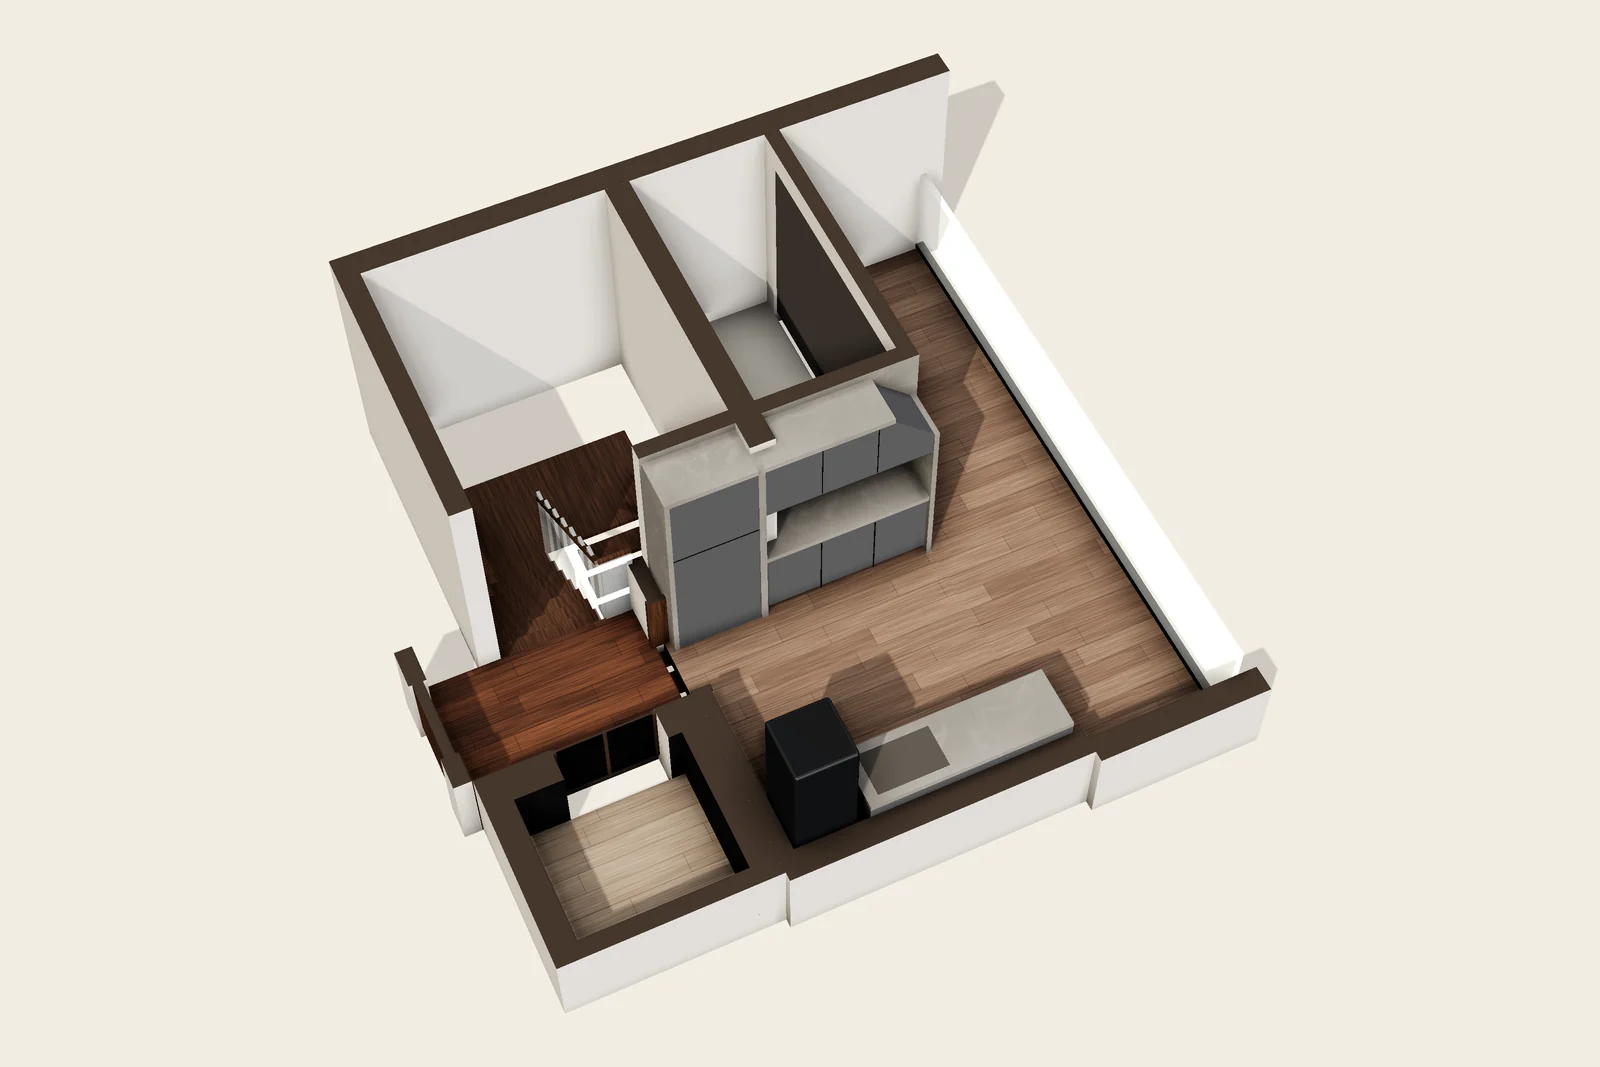
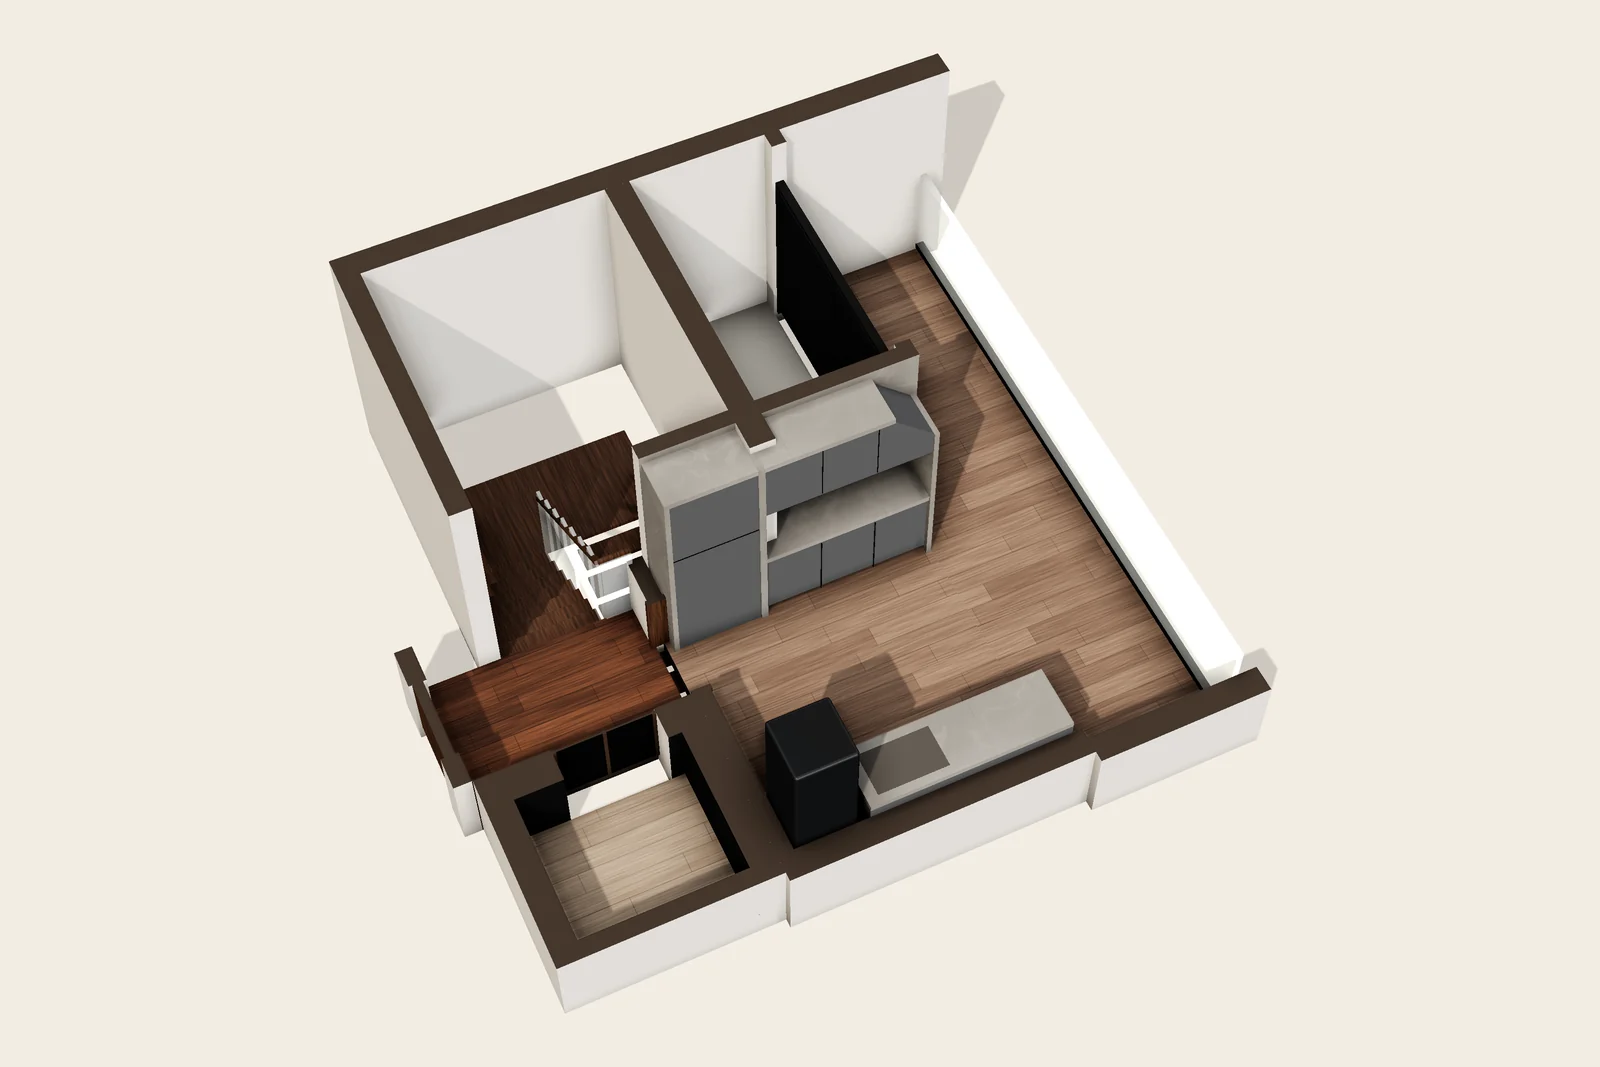
Laundry: new photo on Features, louvred AC-ledge gates in 3D
- The Features gallery's laundry photo replaced with the owner's new wide
  shot of the covered laundry (washer-dryer, sink, cabinets, terrace);
  alt text updated in all five languages
- 3D: the AC ledge closed by black louvred gates, open above, as in the
  photos; re-rendered the 5th-floor picture
- Cache stamps bumped to 2026103101 (rooms3d.js changed)

Changed region(s): [[0.4688, 0.1237, 0.625, 0.3711]]

diff --git a/ja/features.html b/ja/features.html
@@ -28,7 +28,7 @@
   <link rel="preconnect" href="https://fonts.googleapis.com">
   <link rel="preconnect" href="https://fonts.gstatic.com" crossorigin>
   <link href="https://fonts.googleapis.com/css2?family=Cormorant+Garamond:ital,wght@0,400;0,500;1,400&family=Jost:wght@300;400;500&display=swap" rel="stylesheet">
-  <link rel="stylesheet" href="../assets/css/style.css?v=2026102903">
+  <link rel="stylesheet" href="../assets/css/style.css?v=2026103101">
 </head>
 <body>
   <div data-header></div>
@@ -47,7 +47,7 @@
         <div class="gallery__track">
           <figure><img src="../assets/img/lift/lift-01.webp" alt="扉の開いたホームエレベーター" loading="lazy"></figure>
           <figure><img src="../assets/img/features/luggage-storage.webp" alt="造り付けの荷物収納キャビネット" loading="lazy"></figure>
-          <figure><img src="../assets/img/features/laundry.webp" alt="洗濯機、乾燥機、多目的シンク、街の眺めのある屋外ランドリーテラス" loading="lazy" style="object-position: 72% 50%"></figure>
+          <figure><img src="../assets/img/features/laundry.webp" alt="最上階の屋根付きランドリー：縦置きの洗濯機と乾燥機、多目的シンク、収納棚。テラスに面しています" loading="lazy"></figure>
           <figure><img src="../assets/img/living/living-02.webp" alt="リビングルームとテラス" loading="lazy"></figure>
           <figure><img src="../assets/img/living/balcony-01.webp" alt="リビングルームに面した共用のオープンバルコニーと街の眺め" loading="lazy"></figure>
           <figure><img src="../assets/img/living/balcony-02.webp" alt="リビングルームの扉から見た共用のオープンバルコニー" loading="lazy"></figure>
@@ -190,6 +190,6 @@
   </main>
 
   <div data-footer></div>
-  <script src="../assets/js/main.js?v=2026102903"></script>
+  <script src="../assets/js/main.js?v=2026103101"></script>
 </body>
 </html>

diff --git a/assets/js/rooms3d.js b/assets/js/rooms3d.js
@@ -679,8 +679,9 @@ export class Builder {
   }
 
   /* Black vertical bars along a rectangle's long side, with a top rail: a slatted privacy screen,
-     or (bar 2, pitch 0.11 m) a railing. Cut with the walls when it stands on the camera side. */
-  slats(x0, y0, x1, y1, h = 1.2, { bar = 4, pitch = 0.1 } = {}) {
+     or (bar 2, pitch 0.11 m) a railing; across: horizontal louvres in a frame, a gate. Cut with
+     the walls when it stands on the camera side. */
+  slats(x0, y0, x1, y1, h = 1.2, { bar = 4, pitch = 0.1, across = false } = {}) {
     const w = this.wall(x0, y0, x1, y1, { h1: h, mat: "black", furniture: true });
     const build = (top) => {
       const group = new THREE.Group(), alongY = y1 - y0 > x1 - x0, [a, b] = alongY ? [y0, y1] : [x0, x1];
@@ -690,7 +691,10 @@ export class Builder {
         mesh.castShadow = mesh.receiveShadow = true;
         group.add(mesh);
       };
-      for (let i = 0; i < n; i++) {
+      if (across) {   // horizontal louvres in a frame (a gate)
+        for (let z = 0.1; z < top - 0.02; z += pitch) piece([x0, y0, x1, y1], z, z + px(bar));
+        for (const p of [a, (a + b) / 2, b - 4]) piece(alongY ? [x0, p, x1, p + 4] : [p, y0, p + 4, y1], 0, top);
+      } else for (let i = 0; i < n; i++) {
         const p = a + (b - a) * (i + 0.5) / n;
         piece(alongY ? [x0, p - bar / 2, x1, p + bar / 2] : [p - bar / 2, y0, p + bar / 2, y1], 0, top);
       }
@@ -1451,8 +1455,7 @@ function floor5(b) {
   b.wall(1271, 52, 1300, 435);
   b.wall(1164, 382, 1480, 400, { faces: { s: "tile" } });
   b.wall(1462, 52, 1480, 72);
-  b.wall(1466, 72, 1476, 377, { h1: 2.2, mat: "pot" });               // AC ledge doors
-  b.wall(1462, 72, 1480, 377, { h0: 2.2 });
+  b.slats(1466, 72, 1476, 377, 1.9, { bar: 3, pitch: 0.06, across: true });   // AC ledge: black louvred gates, open above (photo, 2026-10-31)
   b.wall(1462, 377, 1480, 382);
   b.wall(1164, 770, 1491, 800, { faces: { n: "tile" } });
   b.wall(1491, 782, 1692, 812);

diff --git a/es/features.html b/es/features.html
@@ -28,7 +28,7 @@
   <link rel="preconnect" href="https://fonts.googleapis.com">
   <link rel="preconnect" href="https://fonts.gstatic.com" crossorigin>
   <link href="https://fonts.googleapis.com/css2?family=Cormorant+Garamond:ital,wght@0,400;0,500;1,400&family=Jost:wght@300;400;500&display=swap" rel="stylesheet">
-  <link rel="stylesheet" href="../assets/css/style.css?v=2026102903">
+  <link rel="stylesheet" href="../assets/css/style.css?v=2026103101">
 </head>
 <body>
   <div data-header></div>
@@ -47,7 +47,7 @@
         <div class="gallery__track">
           <figure><img src="../assets/img/lift/lift-01.webp" alt="El ascensor doméstico, con las puertas abiertas" loading="lazy"></figure>
           <figure><img src="../assets/img/features/luggage-storage.webp" alt="Armarios empotrados para el equipaje" loading="lazy"></figure>
-          <figure><img src="../assets/img/features/laundry.webp" alt="Terraza de lavandería al aire libre con lavadora, secadora, fregadero y vistas a la ciudad" loading="lazy" style="object-position: 72% 50%"></figure>
+          <figure><img src="../assets/img/features/laundry.webp" alt="La lavandería cubierta de la última planta: lavadora y secadora apiladas, fregadero y armarios, abierta a la terraza" loading="lazy"></figure>
           <figure><img src="../assets/img/living/living-02.webp" alt="Salón y terraza" loading="lazy"></figure>
           <figure><img src="../assets/img/living/balcony-01.webp" alt="El balcón abierto compartido junto al salón, con vistas a la ciudad" loading="lazy"></figure>
           <figure><img src="../assets/img/living/balcony-02.webp" alt="El balcón abierto compartido, visto desde las puertas del salón" loading="lazy"></figure>
@@ -190,6 +190,6 @@
   </main>
 
   <div data-footer></div>
-  <script src="../assets/js/main.js?v=2026102903"></script>
+  <script src="../assets/js/main.js?v=2026103101"></script>
 </body>
 </html>

diff --git a/fr/features.html b/fr/features.html
@@ -28,7 +28,7 @@
   <link rel="preconnect" href="https://fonts.googleapis.com">
   <link rel="preconnect" href="https://fonts.gstatic.com" crossorigin>
   <link href="https://fonts.googleapis.com/css2?family=Cormorant+Garamond:ital,wght@0,400;0,500;1,400&family=Jost:wght@300;400;500&display=swap" rel="stylesheet">
-  <link rel="stylesheet" href="../assets/css/style.css?v=2026102903">
+  <link rel="stylesheet" href="../assets/css/style.css?v=2026103101">
 </head>
 <body>
   <div data-header></div>
@@ -47,7 +47,7 @@
         <div class="gallery__track">
           <figure><img src="../assets/img/lift/lift-01.webp" alt="L'ascenseur privatif, portes ouvertes" loading="lazy"></figure>
           <figure><img src="../assets/img/features/luggage-storage.webp" alt="Placards intégrés pour les bagages" loading="lazy"></figure>
-          <figure><img src="../assets/img/features/laundry.webp" alt="Terrasse de buanderie en plein air avec lave-linge, sèche-linge, évier et vue sur la ville" loading="lazy" style="object-position: 72% 50%"></figure>
+          <figure><img src="../assets/img/features/laundry.webp" alt="La buanderie couverte du dernier étage : lave-linge et sèche-linge superposés, évier et rangements, ouverte sur la terrasse" loading="lazy"></figure>
           <figure><img src="../assets/img/living/living-02.webp" alt="Salon et terrasse" loading="lazy"></figure>
           <figure><img src="../assets/img/living/balcony-01.webp" alt="Le balcon ouvert partagé attenant au salon, avec vue sur la ville" loading="lazy"></figure>
           <figure><img src="../assets/img/living/balcony-02.webp" alt="Le balcon ouvert partagé, vu depuis les portes du salon" loading="lazy"></figure>
@@ -190,6 +190,6 @@
   </main>
 
   <div data-footer></div>
-  <script src="../assets/js/main.js?v=2026102903"></script>
+  <script src="../assets/js/main.js?v=2026103101"></script>
 </body>
 </html>

diff --git a/features.html b/features.html
@@ -27,7 +27,7 @@
   <link rel="preconnect" href="https://fonts.googleapis.com">
   <link rel="preconnect" href="https://fonts.gstatic.com" crossorigin>
   <link href="https://fonts.googleapis.com/css2?family=Cormorant+Garamond:ital,wght@0,400;0,500;1,400&family=Jost:wght@300;400;500&display=swap" rel="stylesheet">
-  <link rel="stylesheet" href="assets/css/style.css?v=2026102903">
+  <link rel="stylesheet" href="assets/css/style.css?v=2026103101">
 </head>
 <body>
   <div data-header></div>
@@ -46,7 +46,7 @@
         <div class="gallery__track">
           <figure><img src="assets/img/lift/lift-01.webp" alt="The home lift, doors open" loading="lazy"></figure>
           <figure><img src="assets/img/features/luggage-storage.webp" alt="Built-in luggage storage cabinets" loading="lazy"></figure>
-          <figure><img src="assets/img/features/laundry.webp" alt="Open-air laundry terrace with washer, dryer, utility sink and city view" loading="lazy" style="object-position: 72% 50%"></figure>
+          <figure><img src="assets/img/features/laundry.webp" alt="The covered laundry on the top floor: stacked washer-dryer, utility sink and storage cabinets, opening onto the terrace" loading="lazy"></figure>
           <figure><img src="assets/img/living/living-02.webp" alt="Living room and terrace" loading="lazy"></figure>
           <figure><img src="assets/img/living/balcony-01.webp" alt="The shared open balcony off the living room, with city views" loading="lazy"></figure>
           <figure><img src="assets/img/living/balcony-02.webp" alt="The shared open balcony, seen from the living-room doors" loading="lazy"></figure>
@@ -189,6 +189,6 @@
   </main>
 
   <div data-footer></div>
-  <script src="assets/js/main.js?v=2026102903"></script>
+  <script src="assets/js/main.js?v=2026103101"></script>
 </body>
 </html>

diff --git a/zh/features.html b/zh/features.html
@@ -28,7 +28,7 @@
   <link rel="preconnect" href="https://fonts.googleapis.com">
   <link rel="preconnect" href="https://fonts.gstatic.com" crossorigin>
   <link href="https://fonts.googleapis.com/css2?family=Cormorant+Garamond:ital,wght@0,400;0,500;1,400&family=Jost:wght@300;400;500&display=swap" rel="stylesheet">
-  <link rel="stylesheet" href="../assets/css/style.css?v=2026102903">
+  <link rel="stylesheet" href="../assets/css/style.css?v=2026103101">
 </head>
 <body>
   <div data-header></div>
@@ -47,7 +47,7 @@
         <div class="gallery__track">
           <figure><img src="../assets/img/lift/lift-01.webp" alt="家用电梯，门已打开" loading="lazy"></figure>
           <figure><img src="../assets/img/features/luggage-storage.webp" alt="内置行李储物柜" loading="lazy"></figure>
-          <figure><img src="../assets/img/features/laundry.webp" alt="露天洗衣露台：洗衣机、烘干机、洗涤水槽及城市景观" loading="lazy" style="object-position: 72% 50%"></figure>
+          <figure><img src="../assets/img/features/laundry.webp" alt="顶层有顶棚的洗衣区：叠放的洗衣机和烘干机、洗涤水槽及储物柜，通向露台" loading="lazy"></figure>
           <figure><img src="../assets/img/living/living-02.webp" alt="客厅与露台" loading="lazy"></figure>
           <figure><img src="../assets/img/living/balcony-01.webp" alt="客厅外的共享开放式阳台，可眺望城市景观" loading="lazy"></figure>
           <figure><img src="../assets/img/living/balcony-02.webp" alt="从客厅门口看共享开放式阳台" loading="lazy"></figure>
@@ -190,6 +190,6 @@
   </main>
 
   <div data-footer></div>
-  <script src="../assets/js/main.js?v=2026102903"></script>
+  <script src="../assets/js/main.js?v=2026103101"></script>
 </body>
 </html>

diff --git a/3d/index.html b/3d/index.html
@@ -14,7 +14,7 @@
   <link rel="preconnect" href="https://fonts.googleapis.com">
   <link rel="preconnect" href="https://fonts.gstatic.com" crossorigin>
   <link href="https://fonts.googleapis.com/css2?family=Cormorant+Garamond:ital,wght@0,400;0,500;1,400&family=Jost:wght@300;400;500&display=swap" rel="stylesheet">
-  <link rel="stylesheet" href="../assets/css/style.css?v=2026102903">
+  <link rel="stylesheet" href="../assets/css/style.css?v=2026103101">
   <style>
     html, body { height: 100%; overflow: hidden; }
     body { background: #f3ede4; }
@@ -79,6 +79,6 @@
   <div class="v-labels" id="labels" aria-hidden="true"></div>
   <div class="v-foot"><span id="hint"></span><small id="note"></small></div>
   <div class="v-loading" id="loading">Loading the room…</div>
-  <script type="module" src="../assets/js/viewer3d.js?v=2026102903"></script>
+  <script type="module" src="../assets/js/viewer3d.js?v=2026103101"></script>
 </body>
 </html>

diff --git a/404.html b/404.html
@@ -36,7 +36,7 @@
   <link rel="preconnect" href="https://fonts.googleapis.com">
   <link rel="preconnect" href="https://fonts.gstatic.com" crossorigin>
   <link href="https://fonts.googleapis.com/css2?family=Cormorant+Garamond:ital,wght@0,400;0,500;1,400&family=Jost:wght@300;400;500&display=swap" rel="stylesheet">
-  <link rel="stylesheet" href="/assets/css/style.css?v=2026102903">
+  <link rel="stylesheet" href="/assets/css/style.css?v=2026103101">
   <style>
     .page-head > [lang] { display: none; }
     html[lang="en"] .page-head > [lang="en"], html[lang="zh-Hans"] .page-head > [lang="zh-Hans"], html[lang="ja"] .page-head > [lang="ja"], html[lang="es"] .page-head > [lang="es"], html[lang="fr"] .page-head > [lang="fr"] { display: block; }
@@ -101,6 +101,6 @@
   </main>
 
   <div data-footer></div>
-  <script src="/assets/js/main.js?v=2026102903"></script>
+  <script src="/assets/js/main.js?v=2026103101"></script>
 </body>
 </html>

diff --git a/ja/guide/index.html b/ja/guide/index.html
@@ -12,7 +12,7 @@
   <link rel="preconnect" href="https://fonts.googleapis.com">
   <link rel="preconnect" href="https://fonts.gstatic.com" crossorigin>
   <link href="https://fonts.googleapis.com/css2?family=Cormorant+Garamond:ital,wght@0,400;0,500;1,400&family=Jost:wght@300;400;500&display=swap" rel="stylesheet">
-  <link rel="stylesheet" href="../../assets/css/style.css?v=2026102903">
+  <link rel="stylesheet" href="../../assets/css/style.css?v=2026103101">
 </head>
 <body>
   <div data-header></div>
@@ -36,7 +36,7 @@
   </main>
 
   <div data-footer></div>
-  <script src="../../assets/js/main.js?v=2026102903"></script>
+  <script src="../../assets/js/main.js?v=2026103101"></script>
   <script src="https://cdnjs.cloudflare.com/ajax/libs/marked/12.0.2/marked.min.js"></script>
   <script>
     // The Japanese guide's text lives in guide.md (same folder): edit that file, not this one.

diff --git a/es/guide/index.html b/es/guide/index.html
@@ -12,7 +12,7 @@
   <link rel="preconnect" href="https://fonts.googleapis.com">
   <link rel="preconnect" href="https://fonts.gstatic.com" crossorigin>
   <link href="https://fonts.googleapis.com/css2?family=Cormorant+Garamond:ital,wght@0,400;0,500;1,400&family=Jost:wght@300;400;500&display=swap" rel="stylesheet">
-  <link rel="stylesheet" href="../../assets/css/style.css?v=2026102903">
+  <link rel="stylesheet" href="../../assets/css/style.css?v=2026103101">
 </head>
 <body>
   <div data-header></div>
@@ -36,7 +36,7 @@
   </main>
 
   <div data-footer></div>
-  <script src="../../assets/js/main.js?v=2026102903"></script>
+  <script src="../../assets/js/main.js?v=2026103101"></script>
   <script src="https://cdnjs.cloudflare.com/ajax/libs/marked/12.0.2/marked.min.js"></script>
   <script>
     // The Spanish guide's text lives in guide.md (same folder): edit that file, not this one.

diff --git a/zh/guide/index.html b/zh/guide/index.html
@@ -12,7 +12,7 @@
   <link rel="preconnect" href="https://fonts.googleapis.com">
   <link rel="preconnect" href="https://fonts.gstatic.com" crossorigin>
   <link href="https://fonts.googleapis.com/css2?family=Cormorant+Garamond:ital,wght@0,400;0,500;1,400&family=Jost:wght@300;400;500&display=swap" rel="stylesheet">
-  <link rel="stylesheet" href="../../assets/css/style.css?v=2026102903">
+  <link rel="stylesheet" href="../../assets/css/style.css?v=2026103101">
 </head>
 <body>
   <div data-header></div>
@@ -36,7 +36,7 @@
   </main>
 
   <div data-footer></div>
-  <script src="../../assets/js/main.js?v=2026102903"></script>
+  <script src="../../assets/js/main.js?v=2026103101"></script>
   <script src="https://cdnjs.cloudflare.com/ajax/libs/marked/12.0.2/marked.min.js"></script>
   <script>
     // The Chinese guide's text lives in guide.md (same folder): edit that file, not this one.

diff --git a/fr/guide/index.html b/fr/guide/index.html
@@ -12,7 +12,7 @@
   <link rel="preconnect" href="https://fonts.googleapis.com">
   <link rel="preconnect" href="https://fonts.gstatic.com" crossorigin>
   <link href="https://fonts.googleapis.com/css2?family=Cormorant+Garamond:ital,wght@0,400;0,500;1,400&family=Jost:wght@300;400;500&display=swap" rel="stylesheet">
-  <link rel="stylesheet" href="../../assets/css/style.css?v=2026102903">
+  <link rel="stylesheet" href="../../assets/css/style.css?v=2026103101">
 </head>
 <body>
   <div data-header></div>
@@ -36,7 +36,7 @@
   </main>
 
   <div data-footer></div>
-  <script src="../../assets/js/main.js?v=2026102903"></script>
+  <script src="../../assets/js/main.js?v=2026103101"></script>
   <script src="https://cdnjs.cloudflare.com/ajax/libs/marked/12.0.2/marked.min.js"></script>
   <script>
     // The French guide's text lives in guide.md (same folder): edit that file, not this one.
